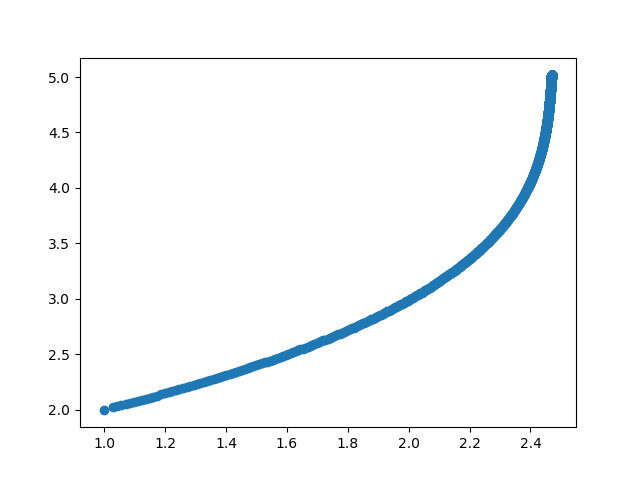
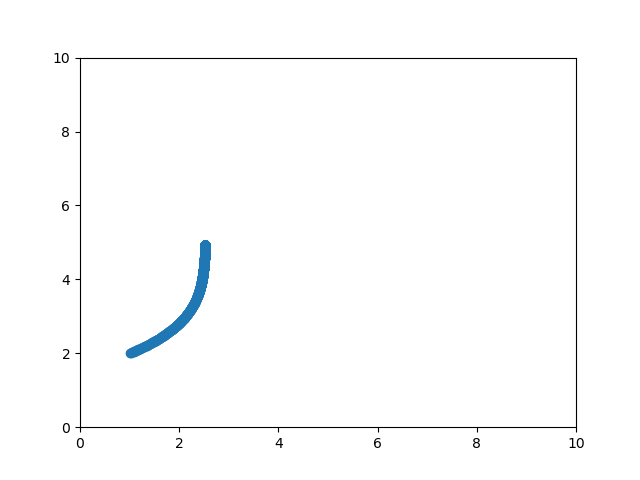
Updated Figure and data

diff --git a/grad.py b/grad.py
@@ -40,7 +40,7 @@ if __name__ == "__main__":
 
     #First epoch
     theta = np.array([1., 2]) ## Starting point
-    learning_rate = 0.01
+    learning_rate = 1
     update, MSE = gd(X, y, theta, learning_rate)
 
     #Test I epochs
@@ -51,6 +51,8 @@ if __name__ == "__main__":
 
 
     plt.scatter(theta[:, 0], theta[:, 1])
-    plt.savefig('gd.png')
+    plt.ylim(0,10)
+    plt.xlim(0, 10)
+    plt.savefig('gd1.png')
 
-
+##TODO: Plot different learning rates on same figure
